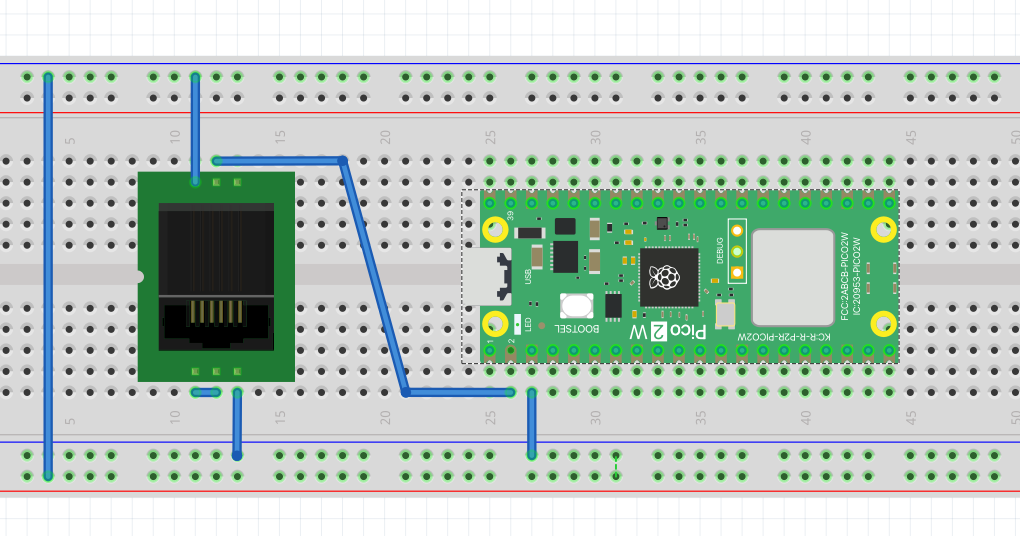
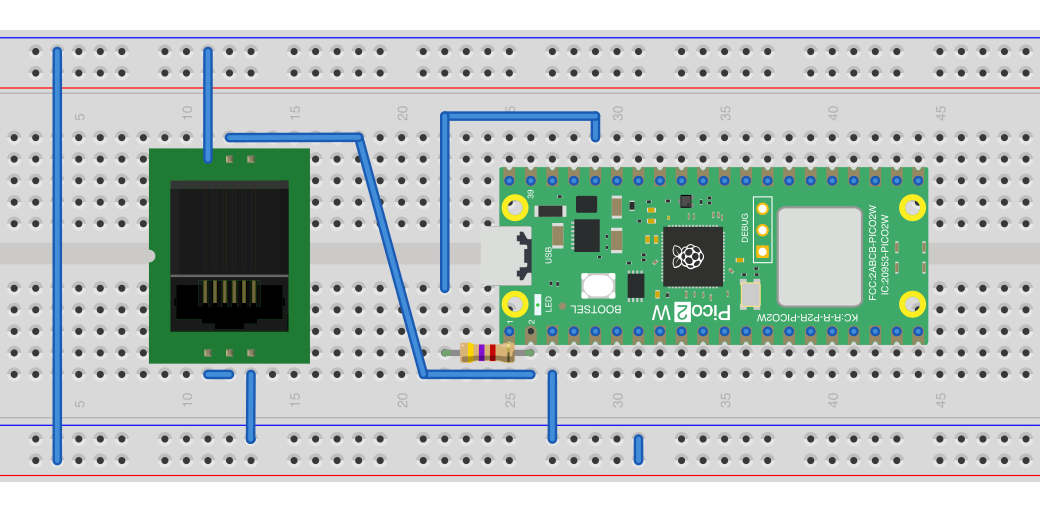
P1 examples: pull-up in the Pico wiring diagram, 5 V from P1 pin 1 (max 250 mA)
Diagram: R1 4.7 kΩ from GP1 to 3V3 (pin 36), and the missing wire that
joins the P1 power-ground rail to GND. READMEs and sketch headers: the
data request is tied to P1 pin 1; that pin supplies at most 250 mA, so a
board that needs more uses an external 5 V supply with a common ground.

Claude-Session: https://claude.ai/code/session_012VPnJLwe6hYB5iBViCCiu6

diff --git a/examples/smart-meter-reader/README.md b/examples/smart-meter-reader/README.md
@@ -36,9 +36,11 @@ P1 pinout (RJ12 6P6C): 1 = +5 V, 2 = data request, 3 = data ground, 4 = not conn
 |---|---|---|
 | GP1 (UART0 RX, physical pin 2) | 5 (data) | 4.7 kΩ pull-up to **3.3 V** (3V3 pin); RX is inverted in software |
 | GND | 3 (data ground) and 6 (power ground) | |
-| — | 2 (data request) | Must be pulled to +5 V so the meter sends data |
+| — | 2 (data request) | Tie to pin 1 (+5 V) so the meter sends data |
 
-GP0 (UART0 TX) is not used. The meter's data output is open collector, so the pull-up resistor sets the logic level: without it the line floats and no data comes in. The code does not enable a pull-up, so the 4.7 kΩ resistor from the data line to **3.3 V** (the Pico's 3V3 pin) is required, as in the M5Stack load-balancing example. The wiring diagram above does not show it yet. Never pull the data line up to 5 V: the Pico pins are 3.3 V. Only the data request line (P1 pin 2) goes to +5 V; it is an input of the meter. Which 5 V source to use for the data request is to be confirmed from the diagram.
+GP0 (UART0 TX) is not used. The meter's data output is open collector, so the pull-up resistor sets the logic level: without it the line floats and no data comes in. The code does not enable a pull-up, so the 4.7 kΩ resistor from the data line to **3.3 V** (the Pico's 3V3 pin) is required, as in the M5Stack load-balancing example. The diagram shows it as R1, from GP1 to the 3V3 pin (pin 36). Never pull the data line up to 5 V: the Pico pins are 3.3 V. Only the data request line (P1 pin 2) goes to +5 V; it is an input of the meter.
+
+**Which 5 V.** The data request draws almost no current, so tie it to P1 pin 1, the meter's own +5 V (as in the diagram). P1 pin 1 can supply at most 250 mA. You may also power the board from it if everything you connect stays below that; if not, use a suitable external 5 V supply and connect its ground to GND. In the diagram the Pico is powered over USB.
 
 ## Build and upload
 

diff --git a/examples/smart-meter-load-balancing/README.md b/examples/smart-meter-load-balancing/README.md
@@ -50,11 +50,13 @@ P1 pinout used in the sketch comments: 1 = +5 V, 2 = data request, 3 = data grou
 | Pin 2: GPIO2 (RX) | 5 (data) | 4.7 kΩ pull-up to **3.3 V** |
 | Pin 3: 5 V | — | Not connected |
 | Pin 4: GND | 3 (data ground) and 6 (power ground) | |
-| — | 2 (data request) | Tie to +5 V so the meter sends data |
+| — | 2 (data request) | Tie to pin 1 (+5 V) so the meter sends data |
 
 The P1 data line is read on GPIO2 at 115200 baud, 8N1, with the UART input inverted in software (`Serial1.begin(115200, SERIAL_8N1, 2, 1, true)`), so no inverter is needed. The receive buffer of `Serial1` is enlarged to 2000 bytes before `begin()`, so a whole telegram fits.
 
 GPIO2 is a 3.3 V pin: **do not pull it up to 5 V.** The meter's data output is open collector, so the pull-up resistor sets the logic level; connect it to 3.3 V. The ext port has no 3.3 V pin; take 3.3 V from the M5 bus (pin 12, 3V3). Only the data request line (P1 pin 2) goes to +5 V: it is an input of the meter and never reaches the CoreS3 SE.
+
+**Which 5 V.** The data request draws almost no current, so tie it to P1 pin 1, the meter's own +5 V. P1 pin 1 can supply at most 250 mA. You may also power the board from it if everything you connect stays below that; if not, use a suitable external 5 V supply and connect its ground to GND.
 
 ## Build and upload
 
